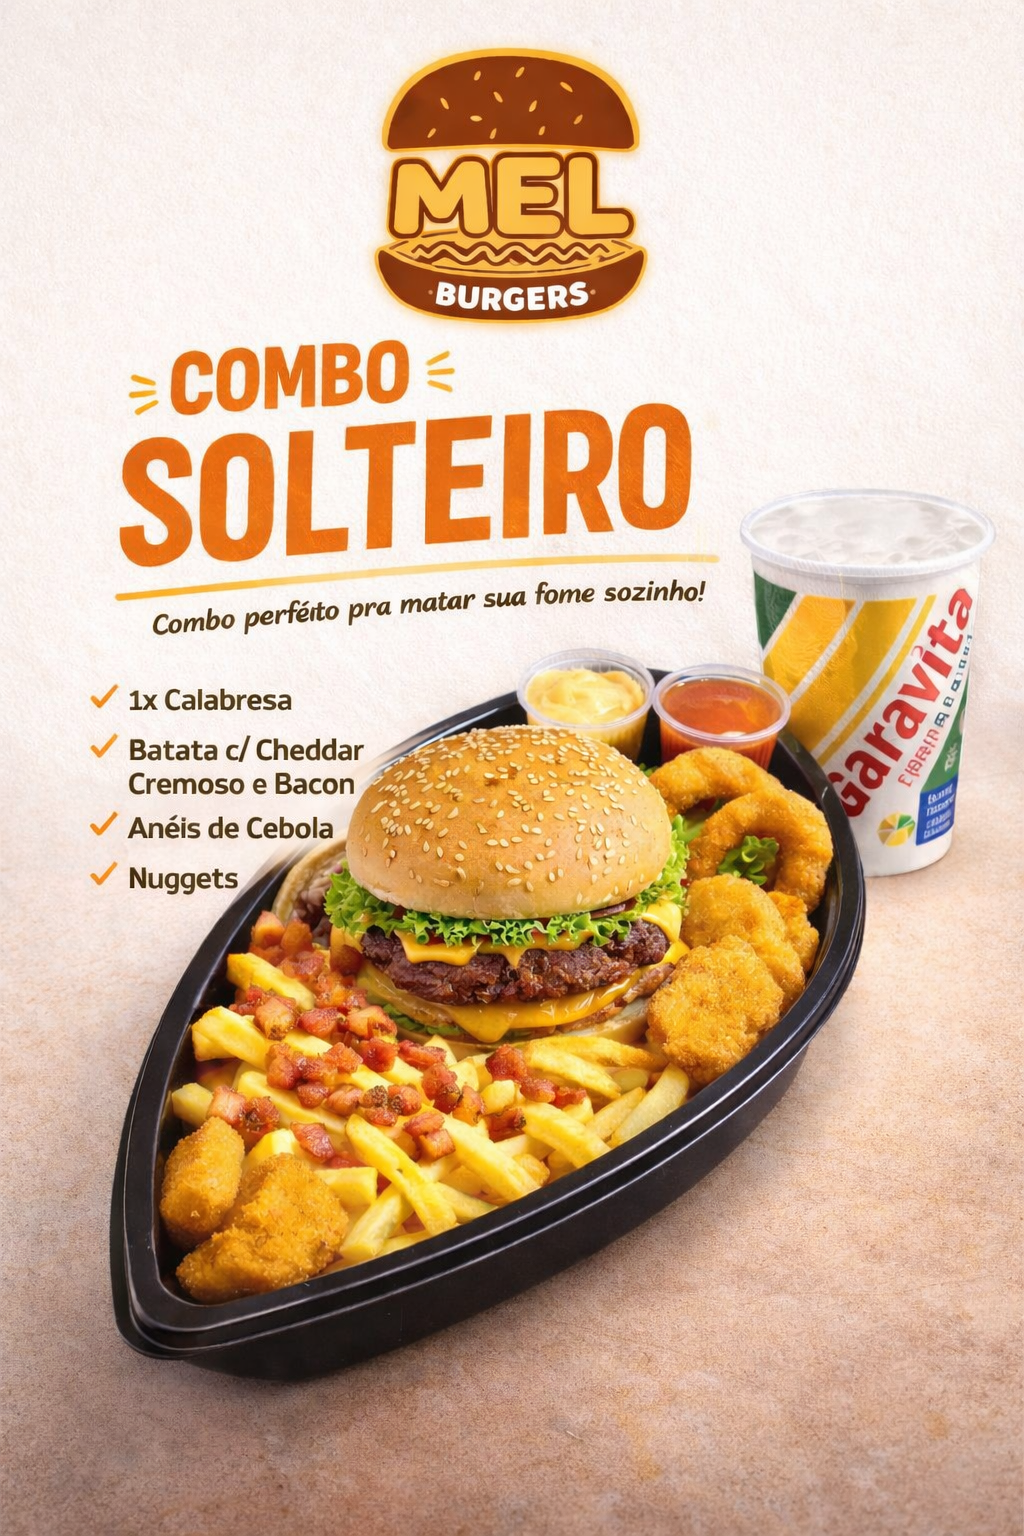
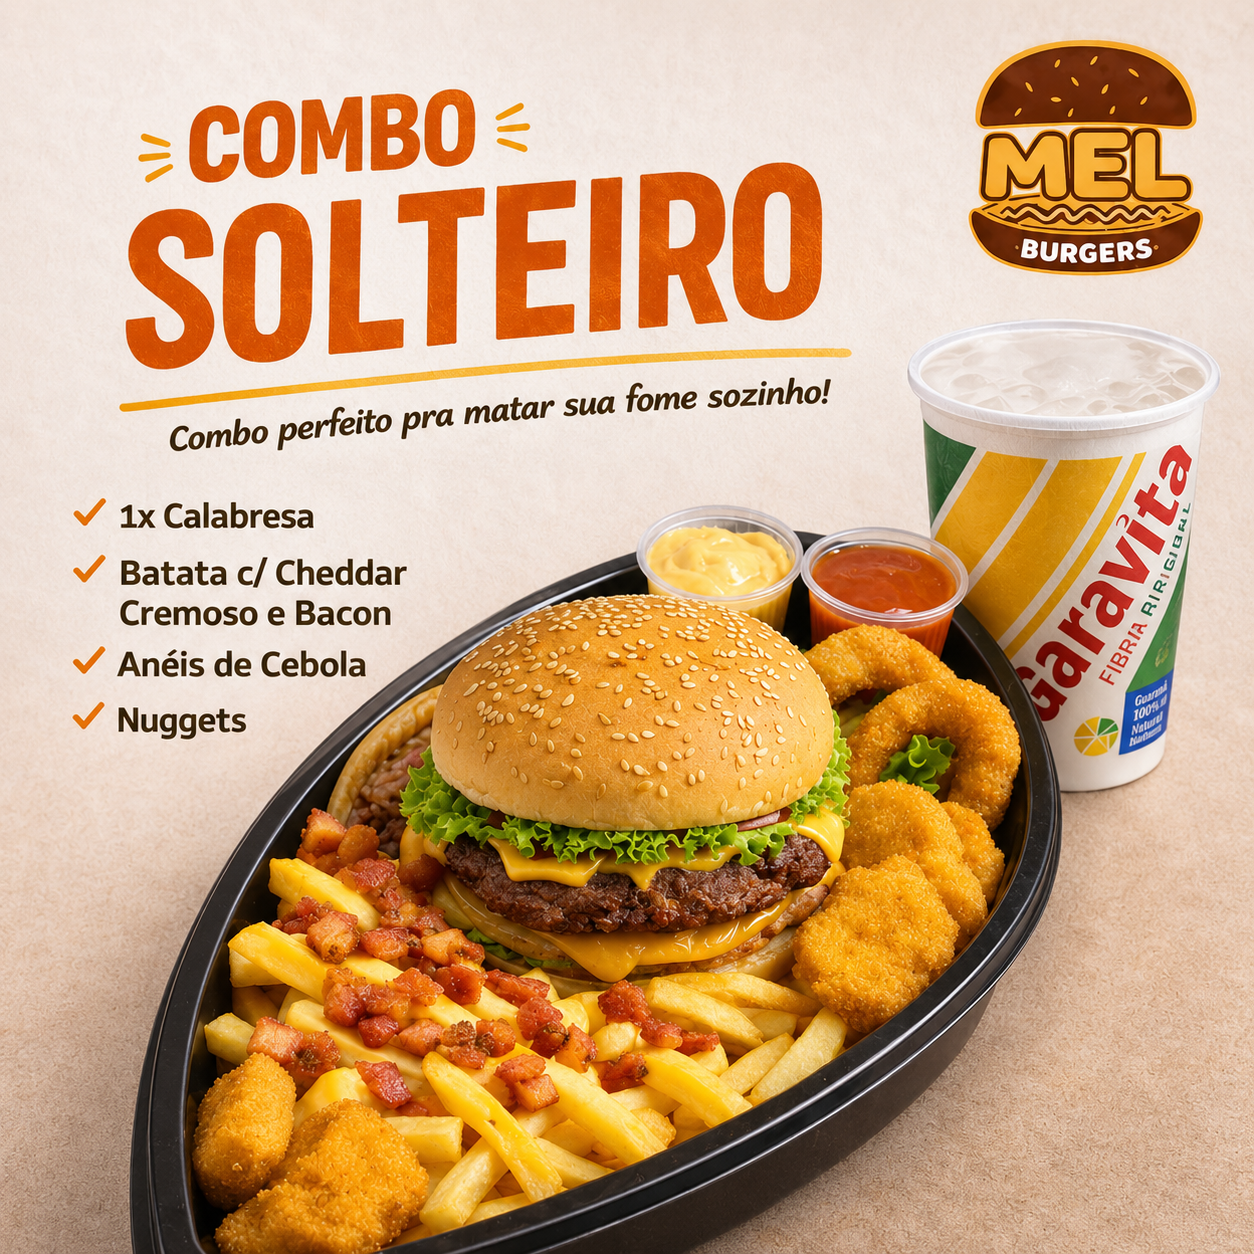
feat: implement category visibility toggle and neon white UI refinements

diff --git a/src/AdminDashboard.jsx b/src/AdminDashboard.jsx
@@ -3,7 +3,8 @@ import {
   ShoppingBag, Printer, Bell, CheckCircle, Clock, 
   RefreshCcw, ChevronRight, LayoutDashboard, Settings, Edit, Plus, Trash2, Save, X, Image as ImageIcon, Camera, Upload,
   DollarSign, ArrowUpCircle, ArrowDownCircle, TrendingUp, LogOut, Menu, ChevronLeft, MapPin, MessageSquare,
-  LayoutList, LayoutGrid, Rows3, Search, Home, ClipboardList, ChevronDown, GripVertical, ShoppingCart, Maximize, Sparkles
+  LayoutList, LayoutGrid, Rows3, Search, Home, ClipboardList, ChevronDown, GripVertical, ShoppingCart, Maximize, Sparkles,
+  Eye, EyeOff
 } from 'lucide-react';
 import { motion, AnimatePresence, LayoutGroup } from 'framer-motion';
 import { 
@@ -64,15 +65,15 @@ const HistoryIcon = ({ size = 24, className, style, isActive }) => (
     className={className}
     style={{
       ...style,
-      filter: isActive ? 'drop-shadow(0 0 8px rgba(0,243,255,0.8))' : 'opacity(0.6)',
+      filter: isActive ? 'drop-shadow(0 0 12px rgba(255,255,255,0.9))' : 'opacity(0.4)',
       transition: 'all 0.3s ease'
     }}
   >
-    <rect x="6" y="4" width="12" height="16" rx="3" stroke={isActive ? "#00f3ff" : "white"} strokeWidth="1.8"/>
-    <rect x="9" y="2.5" width="6" height="3" rx="1.2" stroke={isActive ? "#00f3ff" : "white"} strokeWidth="1.8"/>
-    <line x1="8.5" y1="9" x2="15.5" y2="9" stroke={isActive ? "#00f3ff" : "white"} strokeWidth="1.6" strokeLinecap="round"/>
-    <line x1="8.5" y1="12" x2="15.5" y2="12" stroke={isActive ? "#00f3ff" : "white"} strokeWidth="1.6" strokeLinecap="round"/>
-    <line x1="8.5" y1="15" x2="13" y2="15" stroke={isActive ? "#00f3ff" : "white"} strokeWidth="1.6" strokeLinecap="round"/>
+    <rect x="6" y="4" width="12" height="16" rx="3" stroke={isActive ? "#ffffff" : "white"} strokeWidth="1.8"/>
+    <rect x="9" y="2.5" width="6" height="3" rx="1.2" stroke={isActive ? "#ffffff" : "white"} strokeWidth="1.8"/>
+    <line x1="8.5" y1="9" x2="15.5" y2="9" stroke={isActive ? "#ffffff" : "white"} strokeWidth="1.6" strokeLinecap="round"/>
+    <line x1="8.5" y1="12" x2="15.5" y2="12" stroke={isActive ? "#ffffff" : "white"} strokeWidth="1.6" strokeLinecap="round"/>
+    <line x1="8.5" y1="15" x2="13" y2="15" stroke={isActive ? "#ffffff" : "white"} strokeWidth="1.6" strokeLinecap="round"/>
   </svg>
 );
 
@@ -86,23 +87,23 @@ const MenuIcon = ({ size = 30, className, style, isActive }) => (
     className={className}
     style={{
       ...style,
-      filter: isActive ? 'drop-shadow(0 0 8px rgba(0,243,255,0.8))' : 'opacity(0.6)',
+      filter: isActive ? 'drop-shadow(0 0 12px rgba(255,255,255,0.9))' : 'opacity(0.4)',
       transition: 'all 0.3s ease'
     }}
   >
     {/* Batata ao fundo */}
     <path
       d="M40 16H54L52.2 43C52.1 44.7 50.7 46 49 46H45C43.3 46 41.9 44.7 41.8 43L40 16Z"
-      fill={isActive ? "#00f3ff" : "white"}
+      fill={isActive ? "#ffffff" : "white"}
     />
-    <path d="M41.5 16L40.8 9.5C40.7 8.8 41.3 8.2 42 8.4L45 9.4V16H41.5Z" fill={isActive ? "#00f3ff" : "white"}/>
-    <path d="M46 16V7.5C46 6.9 46.7 6.5 47.2 6.9L49 8.2V16H46Z" fill={isActive ? "#00f3ff" : "white"}/>
-    <path d="M50 16L50.8 8.8C50.9 8.1 51.7 7.8 52.2 8.3L54 10V16H50Z" fill={isActive ? "#00f3ff" : "white"}/>
+    <path d="M41.5 16L40.8 9.5C40.7 8.8 41.3 8.2 42 8.4L45 9.4V16H41.5Z" fill={isActive ? "#ffffff" : "white"}/>
+    <path d="M46 16V7.5C46 6.9 46.7 6.5 47.2 6.9L49 8.2V16H46Z" fill={isActive ? "#ffffff" : "white"}/>
+    <path d="M50 16L50.8 8.8C50.9 8.1 51.7 7.8 52.2 8.3L54 10V16H50Z" fill={isActive ? "#ffffff" : "white"}/>
 
     {/* Burger */}
     <path
       d="M10 26C10 18.8 16.8 14 25 14C33.2 14 40 18.8 40 26V27H10V26Z"
-      fill={isActive ? "#00f3ff" : "white"}
+      fill={isActive ? "#ffffff" : "white"}
     />
     {/* sementes */}
     <ellipse cx="19" cy="19.5" rx="1.1" ry="0.7" fill="#050506"/>
@@ -110,16 +111,16 @@ const MenuIcon = ({ size = 30, className, style, isActive }) => (
     <ellipse cx="30" cy="19.5" rx="1.1" ry="0.7" fill="#050506"/>
 
     {/* recheio 1 */}
-    <rect x="11.5" y="29" width="27" height="2.8" rx="1.4" fill={isActive ? "#00f3ff" : "white"}/>
+    <rect x="11.5" y="29" width="27" height="2.8" rx="1.4" fill={isActive ? "#ffffff" : "white"}/>
     {/* queijo escorrendo */}
     <path
       d="M13 32H37C37.6 32 38 32.4 38 33V34.4C38 35 37.6 35.4 37 35.4 C35.6 35.4 35 36 35 37.2C35 38.8 33.9 40 32.3 40C30.7 40 29.6 38.8 29.6 37.2 C29.6 36 28.9 35.4 27.8 35.4C26.7 35.4 26 36 26 37.2C26 38.8 24.9 40 23.3 40 C21.7 40 20.6 38.8 20.6 37.2C20.6 36 19.9 35.4 18.8 35.4C17.7 35.4 17 36 17 37.2 C17 38.8 15.9 40 14.3 40C12.7 40 11.6 38.8 11.6 37.2V33.4C11.6 32.6 12.2 32 13 32Z"
-      fill={isActive ? "#00f3ff" : "white"}
+      fill={isActive ? "#ffffff" : "white"}
     />
     {/* recheio 2 */}
-    <rect x="12" y="37.5" width="26" height="2.6" rx="1.3" fill={isActive ? "#00f3ff" : "white"}/>
+    <rect x="12" y="37.5" width="26" height="2.6" rx="1.3" fill={isActive ? "#ffffff" : "white"}/>
     {/* pão inferior */}
-    <rect x="10" y="42" width="30" height="7" rx="3.5" fill={isActive ? "#00f3ff" : "white"}/>
+    <rect x="10" y="42" width="30" height="7" rx="3.5" fill={isActive ? "#ffffff" : "white"}/>
   </svg>
 );
 
@@ -134,8 +135,8 @@ const MoneyBagIcon = ({ size = 24, className, style, isActive }) => (
       display: 'inline-block',
       verticalAlign: 'middle',
       filter: isActive 
-        ? 'drop-shadow(0 0 8px rgba(0,243,255,0.8))' 
-        : 'opacity(0.6)',
+        ? 'drop-shadow(0 0 12px rgba(255,255,255,0.9))' 
+        : 'opacity(0.4)',
       transition: 'all 0.3s ease'
     }}
     className={className}
@@ -144,23 +145,23 @@ const MoneyBagIcon = ({ size = 24, className, style, isActive }) => (
     {/* topo do saco */}
     <path
       d="M180 92 L256 58 L332 92 L296 178 L216 178 Z"
-      fill={isActive ? "#00f3ff" : "white"}
+      fill={isActive ? "#ffffff" : "white"}
     />
     {/* laterais do topo */}
     <path
       d="M170 108 C140 120, 126 146, 142 170 L204 236 L230 176 Z"
-      fill={isActive ? "#00f3ff" : "white"}
+      fill={isActive ? "#ffffff" : "white"}
     />
     <path
       d="M342 108 C372 120, 386 146, 370 170 L308 236 L282 176 Z"
-      fill={isActive ? "#00f3ff" : "white"}
+      fill={isActive ? "#ffffff" : "white"}
     />
     {/* amarração */}
     <rect x="190" y="176" width="132" height="18" rx="9" fill="black"/>
     {/* corpo do saco */}
     <path
       d="M198 192 C112 244, 52 338, 52 420 C52 478, 92 506, 162 506 H350 C420 506, 460 478, 460 420 C460 338, 400 244, 314 192 Z"
-      fill={isActive ? "#00f3ff" : "white"}
+      fill={isActive ? "#ffffff" : "white"}
     />
     {/* símbolo de dinheiro */}
     <text
@@ -188,12 +189,12 @@ const SearchIcon = ({ size = 24, className, style, isActive }) => (
     className={className}
     style={{
       ...style,
-      filter: isActive ? 'drop-shadow(0 0 8px rgba(0,243,255,0.8))' : 'opacity(0.6)',
+      filter: isActive ? 'drop-shadow(0 0 12px rgba(255,255,255,0.9))' : 'opacity(0.4)',
       transition: 'all 0.3s ease'
     }}
   >
     <g 
-      stroke={isActive ? "#00f3ff" : "white"} 
+      stroke={isActive ? "#ffffff" : "white"} 
       strokeWidth={isActive ? "2.5" : "2.2"} 
       strokeLinecap="round" 
       strokeLinejoin="round"
@@ -358,12 +359,12 @@ const SettingsIcon = ({ size = 24, className, style, isActive }) => (
     className={className}
     style={{
       ...style,
-      filter: isActive ? 'drop-shadow(0 0 8px rgba(0,243,255,0.8))' : 'opacity(0.6)',
+      filter: isActive ? 'drop-shadow(0 0 12px rgba(255,255,255,0.9))' : 'opacity(0.4)',
       transition: 'all 0.3s ease'
     }}
   >
     <g 
-      stroke={isActive ? "#00f3ff" : "white"} 
+      stroke={isActive ? "#ffffff" : "white"} 
       strokeWidth={isActive ? "2.2" : "1.8"} 
       strokeLinecap="round" 
       strokeLinejoin="round"
@@ -1085,6 +1086,18 @@ const AdminDashboard = () => {
     }
   };
 
+  const handleToggleCategoryVisibility = (catName) => {
+    const newMenu = { ...appMenuData };
+    if (!newMenu.hiddenCategories) newMenu.hiddenCategories = [];
+    
+    if (newMenu.hiddenCategories.includes(catName)) {
+      newMenu.hiddenCategories = newMenu.hiddenCategories.filter(c => c !== catName);
+    } else {
+      newMenu.hiddenCategories.push(catName);
+    }
+    handleSaveMenu(newMenu);
+  };
+
   const handleDragEndMenu = (event) => {
     const { active, over } = event;
     if (!over || active.id === over.id) return;
@@ -1299,7 +1312,7 @@ const AdminDashboard = () => {
           <nav style={{ flex: 1, display: 'flex', flexDirection: 'column', gap: '4px' }}>
             {[
               { id: 'orders-history', renderIcon: (isActive) => <HistoryIcon size={20} isActive={isActive} />, label: 'Pedidos' },
-              { id: 'pos', renderIcon: (isActive) => <ShoppingBag size={20} color={isActive ? '#00f3ff' : '#a1a1aa'} />, label: 'Lançar Venda' },
+              { id: 'pos', renderIcon: (isActive) => <ShoppingBag size={20} color={isActive ? '#ffffff' : '#a1a1aa'} />, label: 'Lançar Venda' },
               { id: 'search', renderIcon: (isActive) => <SearchIcon size={20} isActive={isActive} />, label: 'Explorar' },
               { id: 'menu', renderIcon: (isActive) => <MenuIcon size={20} isActive={isActive} />, label: 'Cardápio' },
               { id: 'finance', renderIcon: (isActive) => <MoneyBagIcon size={20} isActive={isActive} />, label: 'Financeiro' },
@@ -1899,6 +1912,22 @@ const AdminDashboard = () => {
                                 <h3 style={{ fontSize: '22px', fontWeight: 900, color: 'white', margin: 0 }}>{cat}</h3>
                                 <span style={{ fontSize: '11px', color: '#52525b', fontWeight: 700 }}>{appMenuData.menu[cat].length} PRODUTOS</span>
                               </div>
+                              <button 
+                                onClick={() => handleToggleCategoryVisibility(cat)}
+                                style={{ 
+                                  background: appMenuData?.hiddenCategories?.includes(cat) ? 'rgba(236, 148, 36, 0.1)' : 'rgba(255, 255, 255, 0.05)', 
+                                  border: `1px solid ${appMenuData?.hiddenCategories?.includes(cat) ? 'rgba(236, 148, 36, 0.2)' : 'rgba(255, 255, 255, 0.1)'}`, 
+                                  color: appMenuData?.hiddenCategories?.includes(cat) ? '#EC9424' : '#71717a', 
+                                  width: '32px', height: '32px', 
+                                  borderRadius: '8px', 
+                                  display: 'flex', alignItems: 'center', justifyContent: 'center',
+                                  cursor: 'pointer',
+                                  marginTop: '4px'
+                                }}
+                                title={appMenuData?.hiddenCategories?.includes(cat) ? "Sessão Oculta" : "Sessão Visível"}
+                              >
+                                {appMenuData?.hiddenCategories?.includes(cat) ? <EyeOff size={14} /> : <Eye size={14} />}
+                              </button>
                               <button 
                                 onClick={() => handleDeleteCategory(cat)}
                                 style={{ 
@@ -2533,13 +2562,19 @@ const AdminDashboard = () => {
           <motion.nav style={{ height: '115px', position: 'relative' }}>
             <div style={{ position: 'relative', width: '100%', height: '100%' }}>
               <svg style={{ position: 'absolute', inset: 0, width: '100%', height: '166%', transform: 'translateY(-66px)', overflow: 'visible' }} viewBox="0 0 390 115" preserveAspectRatio="none">
+                <defs>
+                  <filter id="neonGlow" x="-50%" y="-50%" width="200%" height="200%">
+                    <feGaussianBlur stdDeviation="3.5" result="blur" />
+                    <feComposite in="SourceGraphic" in2="blur" operator="over" />
+                  </filter>
+                </defs>
                 <path d="M0,102 C100,94 150,92 195,92 C240,92 290,94 390,102 V115 H0 Z" fill="#121215" />
                 <path d="M0,72 C100,64 150,62 195,62 C240,62 290,64 390,72 L390,104 C290,96 240,94 195,94 C150,94 100,96 0,104 Z" fill="rgba(5, 5, 7, 0.97)" />
                 <motion.path
                   d="M0,102 C100,94 150,92 195,92 C240,92 290,94 390,102"
                   fill="none"
-                  stroke="#00f3ff"
-                  strokeWidth="2.5"
+                  stroke="#ffffff"
+                  strokeWidth="3.2"
                   strokeLinecap="round"
                   filter="url(#neonGlow)"
                   animate={{

diff --git a/src/index.css b/src/index.css
@@ -374,6 +374,24 @@ body {
   letter-spacing: 0.01em;
 }
 
+.pill-neon-indicator {
+  position: absolute;
+  bottom: 4px;
+  left: 20%;
+  right: 20%;
+  height: 3px;
+  background: #ffffff !important;
+  border-radius: 999px;
+  z-index: 50;
+  box-shadow: 0 0 10px #ffffff, 
+              0 0 20px #ffffff;
+  pointer-events: none;
+  /* Força renderização via GPU no iOS para evitar cintilação */
+  will-change: transform;
+  -webkit-transform: translate3d(0, 0, 0);
+  transform: translate3d(0, 0, 0);
+}
+
 .honey-svg {
   position: absolute;
   top: -6px; /* Ajuste final para sentar na margem superior */

diff --git a/src/App.jsx b/src/App.jsx
@@ -343,7 +343,11 @@ const App = () => {
 
   // === CÁLCULO DE TOTAIS ===
   const categories = useMemo(() => {
-    if (appMenuData && appMenuData.menu) return Object.keys(appMenuData.menu);
+    if (appMenuData && appMenuData.menu) {
+      const allCats = Object.keys(appMenuData.menu);
+      const hidden = appMenuData.hiddenCategories || [];
+      return allCats.filter(cat => !hidden.includes(cat));
+    }
     return [];
   }, [appMenuData]);
 
@@ -600,6 +604,13 @@ const App = () => {
               <HoneySVG id={cat.replace(/\s+/g, '-')} />
             )}
             <span className="label">{cat}</span>
+            {activeCategory === cat && (
+              <motion.div 
+                layoutId="active-pill-indicator"
+                className="pill-neon-indicator"
+                transition={{ type: "spring", bounce: 0.2, duration: 0.6 }}
+              />
+            )}
           </button>
         ))}
       </nav>